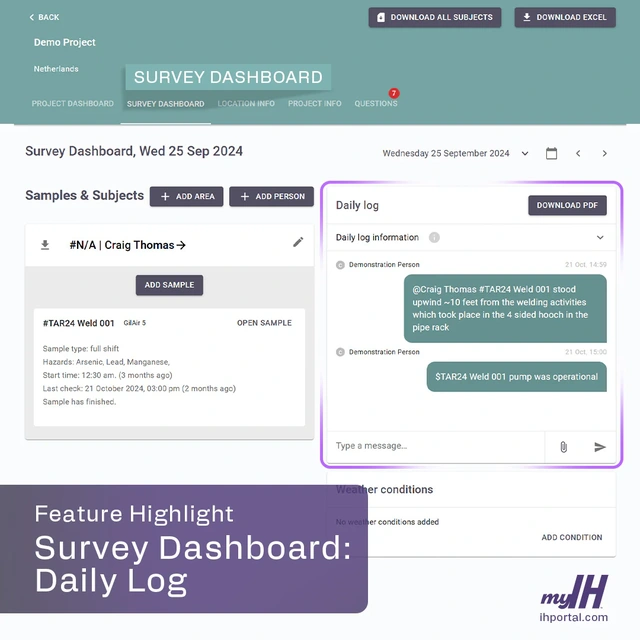
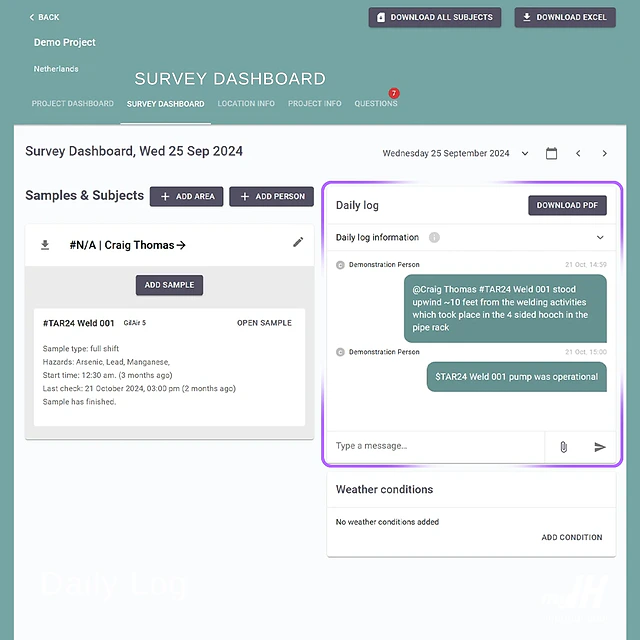
Restore the survey artwork, open the sample PDF directly and refine record cards

diff --git a/Consultants.html b/Consultants.html
@@ -1317,7 +1317,38 @@ body.previewInView #ventWrap,body.previewInView #fxParticles{visibility:hidden}
 @media(max-width:960px){.fieldExamples{grid-template-columns:1fr}.fieldExamples article{padding:22px}}
 </style><style>.questionLink{background:none;border:0;font:inherit;color:#44435c;text-decoration:underline;cursor:pointer}.svHead .svTabs{display:flex;flex-wrap:wrap;gap:0}.svTabs button{font-weight:600;line-height:1.25;font-family:inherit;font-size:15px;padding:12px;border:0;border-bottom:3px solid transparent;color:#182e30;background:transparent;cursor:pointer}.svTabs button.on{color:#102122;border-bottom-color:white;background:#ffffff26}.svTabs sup{background:#ad312a;color:white;border-radius:1em;padding:2px 5px}
 .svBody:is([data-view=project_dash],[data-view=questions],[data-view=proj_info]){max-width:1152px;margin:auto;padding:clamp(12px,2vw,30px);background:#fafbfc;border:0;color:#504e60}.svBody[data-view=project_dash] h2,.projectQuestions h2{font-size:clamp(24px,2vw,34px);font-weight:400;margin:0 0 18px}.projectOverview{display:grid;grid-template-columns:repeat(2,minmax(0,1fr));gap:16px;margin-bottom:24px}.projectOverview article,.surveyDays{background:white;border-radius:4px;box-shadow:0 1px 4px #0003;padding:16px;min-width:0;overflow-wrap:anywhere}.projectOverview h3,.svBody[data-view=project_dash]>h3{font-size:20px;margin:0 0 14px}.projectOverview p,.planStats{font:16px/1.5 Roboto,Arial,sans-serif;margin:6px 0}.planStats,.questionActions{display:flex;gap:12px;flex-wrap:wrap;justify-content:space-between}.projectOverview progress{width:100%;height:18px;accent-color:#517f80}.surveyDays{overflow-x:auto;padding:0}.svBody[data-view=project_dash] :is(td,th){font-size:15px;line-height:1.4;padding:10px;text-transform:none;letter-spacing:normal}.projectQuestions details{margin:8px 0;background:white;border:1px solid #ddd;border-radius:4px}.projectQuestions summary{cursor:pointer;background:#514e60;color:white;padding:12px 16px;font-weight:600}.projectQuestions form,.exportChoice{padding:12px 16px}.projectQuestions form label,.projectQuestions textarea,.projectQuestions select{display:block;width:100%;margin:0 0 10px;font:inherit}.projectQuestions textarea,.projectQuestions select{padding:8px;border:1px solid #9796a0;color:#222;background:white}.projectQuestions button{font:inherit;background:#504e60;color:white;padding:8px 14px;border:0;border-radius:4px;cursor:pointer}.projectQuestions button:disabled{background:#ddd;color:#555}.projectQuestions [role=status]{margin-inline:10px}.questionActions{justify-content:flex-start}.projectQuestions h3{margin:16px 0 8px}.projectQuestions .exportChoice{display:flex;align-items:center;gap:8px}.exportChoice input{width:auto}.projectQuestions p{margin:12px 0}@media(max-width:700px){.projectOverview{grid-template-columns:1fr}.svTabs button{padding:8px;font-size:14px}}</style>
-<style>.sampleShowcase{display:grid;grid-template-columns:minmax(0,2fr) minmax(250px,1fr);gap:22px;margin:28px 0;color:#282731}.subjectPreview,.sampleExport{min-width:0;border-radius:5px;overflow:hidden;box-shadow:0 1px 4px #28273135}.subjectPreview{background:white}.subjectPreview header{display:flex;align-items:center;gap:16px;padding:20px 24px;font-size:clamp(20px,2vw,26px)}.subjectPreview header span{color:#74747a}.subjectTray{padding:16px;background:#ebebed}.subjectTray details{background:white;border-radius:4px}.subjectTray summary{display:flex;gap:10px 16px;align-items:center;flex-wrap:wrap;padding:16px;cursor:pointer;font-size:17px}.subjectTray summary strong{font-size:21px}.sampleToggle{margin-left:auto;font-size:15px;color:#514e61}.sampleToggle::after{content:"Open sample ＋"}.subjectTray details[open] .sampleToggle::after{content:"Close sample −"}.subjectTray dl{display:grid;grid-template-columns:auto 1fr;gap:6px 20px;margin:0;padding:0 16px 16px;font-size:17px;line-height:1.45}.subjectTray dt{color:#555461}.subjectTray dd{margin:0}.sampleExport{display:flex;flex-direction:column;align-items:flex-start;justify-content:center;padding:clamp(20px,3vw,40px);background:linear-gradient(135deg,#56506d,#332e42);color:white}.sampleExport h3{font-size:clamp(24px,2.4vw,34px);line-height:1.15;margin:0}.sampleExport p{font-size:18px;line-height:1.5;color:#f4effb}.sampleExport button{border:1px solid #ddd8ed;border-radius:4px;background:transparent;color:white;padding:10px 16px;font:inherit;cursor:pointer}.sampleExport button:hover,.sampleExport button:focus-visible{background:#ffffff20}.subjectTray summary:is(:hover,:focus-visible){background:#f3f4f5}
+<style>
+.sampleShowcase{display:grid;grid-template-columns:minmax(0,1.55fr) minmax(0,1fr);gap:clamp(1rem,2.5vw,2.25rem);align-items:stretch}
+.subjectPreview,.sampleExport{min-width:0;border-radius:6px;overflow:hidden}
+.subjectPreview{padding:3px;background:linear-gradient(125deg,#272b32 4%,#a2b9b9 20%,#454953 34%,#252933 72%,#788b91);box-shadow:0 6px 16px #20232c22}
+.subjectPreview header{display:flex;align-items:center;gap:.8rem;background:#282c34;color:white;padding:1rem 1.25rem;font-size:clamp(1.12rem,2vw,1.5rem)}
+.subjectPreview header span{color:#b5d9d8}
+.subjectTray{padding:clamp(.7rem,2vw,1.3rem);background:#e6e8e9}
+.subjectTray details{background:white;border:1px solid #ccd2d4;border-radius:3px}
+.subjectTray summary{display:flex;align-items:center;flex-wrap:wrap;gap:.45rem .8rem;padding:1rem;cursor:pointer;color:#242632;list-style:none}
+.subjectTray summary::-webkit-details-marker{display:none}
+.subjectTray summary strong{font-size:1.25rem}
+.subjectTray summary span{font-size:1rem;flex:1 1 12rem}
+.sampleToggle{color:#46425d;font-size:.95rem}
+.sampleToggle:after{content:'Open sample ＋'}
+details[open] .sampleToggle:after{content:'Close sample −'}
+.subjectTray dl{margin:0;padding:.35rem 1rem .65rem;display:grid;grid-template-columns:minmax(6rem,.8fr) minmax(0,1fr);background:#202e33;color:#f4fafa;border-top:3px solid #88b8b6}
+.subjectTray dt,.subjectTray dd{margin:0;padding:.65rem 0;border-bottom:1px solid #53636a;font-size:1rem;line-height:1.4;overflow-wrap:anywhere}
+.subjectTray dt{font-family:ui-monospace,monospace;color:#bddad8}
+.subjectTray dd{text-align:right}
+.sampleExport{display:flex;flex-direction:column;align-items:flex-start;justify-content:center;gap:1rem;padding:clamp(1.35rem,3vw,2.75rem);color:white;background:linear-gradient(130deg,#645871,#483d58 52%,#342d42);border:1px solid #786a86;box-shadow:0 6px 16px #30273825}
+.sampleExport h3,.sampleExport p{color:inherit;margin:0}
+.sampleExport h3{font-size:clamp(1.5rem,2.35vw,2.25rem);line-height:1.15}
+.sampleExport p{font-size:1.1rem;line-height:1.5}
+.sampleExport a{display:inline-flex;align-items:center;min-height:44px;padding:.6rem 1rem;border:1px solid #ece7f2;border-radius:3px;background:#fff;color:#44394f;font-weight:700;text-decoration:none}
+.sampleExport a:hover,.sampleExport a:focus-visible{background:#efe9f5;text-decoration:underline}
+.subjectTray summary:focus-visible,.sampleExport a:focus-visible{outline:3px solid #387a81;outline-offset:-3px}
+.recordStory .recordDestinations{overflow:visible}
+.recordStory .recordDestinations details,.recordStory .recordDestinations details[open]{position:relative;margin:1.1rem 0 .65rem;border:1px solid #839e9c!important;border-radius:0 4px 4px 4px;background:#fcfdfb!important;box-shadow:0 3px 0 #d4dfdd}
+.recordStory .recordDestinations details:before{content:'';position:absolute;bottom:100%;left:-1px;width:clamp(3rem,15%,6rem);height:8px;background:#89acaa;clip-path:polygon(0 0,85% 0,100% 100%,0 100%)}
+@media(hover:hover) and (pointer:fine) and (prefers-reduced-motion:no-preference){.subjectPreview,.sampleExport{transition:box-shadow .18s ease}.subjectPreview:hover,.sampleExport:hover{box-shadow:0 7px 21px #30273840}.sampleExport{background:radial-gradient(ellipse at var(--tile-x,25%) var(--tile-y,20%),#71647d88,transparent 65%),linear-gradient(130deg,#60536e,#352d42)}}
+@media(max-width:760px){.sampleShowcase{grid-template-columns:minmax(0,1fr)}.sampleExport{padding:1.4rem}.subjectTray summary{align-items:baseline}.subjectTray summary span{flex-basis:100%}}
+
 #sandbox .slide:not(:first-child){width:100%;max-width:1280px;margin-inline:auto;padding:clamp(16px,2.5vw,32px)}#sandbox .slide h2{font-size:clamp(27px,2.5vw,38px);line-height:1.16}#sandbox .slide .sub{font-size:clamp(18px,1.25vw,21px)!important;line-height:1.5;max-width:78ch}#sandbox .slide .eyebrow{font-size:15px;letter-spacing:.09em}
 #sandbox .slide--report .bmrReport{max-width:none;min-width:0;width:100%;zoom:1}.reportFrame{background:#f2f4f5;padding:clamp(8px,1.6vw,20px)}.bmrReport details>summary{cursor:pointer;background:#514c61;color:white;padding:10px 16px;font-size:18px;font-weight:600}.bmrReport details+details{border-top:1px solid #dedbe2}.reportSection{overflow-x:auto}.bmrReport .bmrGrid{grid-template-columns:minmax(0,1fr) minmax(0,1.6fr) minmax(0,1fr) minmax(0,1.6fr)}#sandbox .bmrReport :is(.bmrLabel,.bmrValue){font-size:17px;padding:8px 12px;line-height:1.4;overflow-wrap:anywhere}
 #sandbox #explore .scenarioPair{display:grid;grid-template-columns:minmax(0,1.45fr) minmax(0,1fr);gap:clamp(12px,2vw,26px);margin-top:22px;align-items:start;container-type:inline-size}#sandbox #explore .scenarioPair>.cardShadow{margin:0;min-width:0;border-radius:4px;box-shadow:0 2px 7px #24233226;padding:18px;background:white}#sandbox #explore .scenarioPair .dashboardChartTitle{font-size:clamp(22px,1.7vw,28px);line-height:1.2}#sandbox #explore .scenarioPair .donutGrid{display:grid;grid-template-columns:minmax(0,1.1fr) minmax(0,1fr);gap:14px;align-items:center}#sandbox #explore .scenarioPair .donutClients{max-height:none;overflow:visible;width:auto}#sandbox #explore .donutClients label{display:flex;align-items:baseline;gap:8px;font-size:17px;line-height:1.4;margin:8px 0}#sandbox #explore .scenarioPair .donutBox{width:100%;max-width:320px;min-width:0;height:auto;aspect-ratio:1}#sandbox #explore .donutBox svg{width:100%;height:100%}#sandbox #explore .scenarioPair .dashResults{max-height:none;overflow:visible;padding:0}#sandbox #explore .scenarioPair .dashResults :is(td,th){font-size:16px;line-height:1.4;padding:12px;white-space:normal}#sandbox #explore #donutHaz{min-width:0!important;max-width:100%;width:100%;font-size:17px}
@@ -1517,7 +1548,7 @@ body.previewInView #ventWrap,body.previewInView #fxParticles{visibility:hidden}
     </div>
     <div class="brandProduct">
       <div class="brandProductTop"><span class="liveDot"></span> THE FIELD DAY, CONNECTED <span class="brandProductTag">myIH / SURVEY</span></div>
-      <div class="brandProductImage"><img src="assets/survey-dashboard-4dcff.webp" width="1080" height="1080" decoding="async" srcset="assets/survey-dashboard-4dcff-640.webp 640w, assets/survey-dashboard-4dcff.webp 1080w" sizes="(max-width:1050px) 94vw, 55vw" fetchpriority="high" alt="myIH Survey Dashboard showing Samples and Subjects beside the tagged Daily Log"></div>
+      <div class="brandProductImage"><img src="assets/survey-dashboard-4dcff.webp" width="1080" height="1080" decoding="async" srcset="assets/survey-dashboard-4dcff-640.webp 640w, assets/survey-dashboard-4dcff.webp 1080w, assets/survey-dashboard-daily-log-1920.webp 1920w" sizes="(max-width:1050px) 94vw, 55vw" fetchpriority="high" alt="myIH Survey Dashboard showing Samples and Subjects beside the tagged Daily Log"></div>
       <div class="brandProductFoot"><span><b>@</b> People</span><span><b>#</b> Samples</span><span><b>$</b> Pump checks</span><span class="brandRecord">One connected record</span></div>
     </div>
   </div>
@@ -1829,7 +1860,7 @@ body.previewInView #ventWrap,body.previewInView #fxParticles{visibility:hidden}
 <header><span aria-hidden="true">▤</span><strong>#001 | Noise Tester</strong></header>
 <div class="subjectTray"><details open><summary><strong>#NoiseTest</strong><span>Casella CEL Noise Dosimeter Calibrator</span><b class="sampleToggle"></b></summary>
 <dl><dt>Sample type</dt><dd>Full shift</dd><dt>Hazard</dt><dd>Noise Dose</dd><dt>Start time</dt><dd>08:00 am</dd><dt>Last check</dt><dd>Not checked</dd><dt>Status</dt><dd>Finished with results</dd></dl></details></div></article>
-<aside class="sampleExport"><h3>Export the sample record</h3><p>Review the field notes and results together in Excel or PDF.</p><button type="button" onclick="openSandbox();go(6)">View sample data sheet →</button></aside></div>
+<aside class="sampleExport"><h3>Export the sample record</h3><p>Review the field notes and results together in Excel or PDF.</p><a href="assets/tour/BR-062124-001.pdf" target="_blank" rel="noopener">View sample data sheet (PDF) ↗</a></aside></div>
 <aside class="recordProof">
 <div class="recordProofStat"><strong>20%</strong><span>minimum efficiency gain<br>reported by a user</span></div>
 <div><blockquote>“Using myIH, we experienced a minimum 20% efficiency gain.”</blockquote><cite>— Current user, IH Consultancy CEO</cite><p class="claimQualifier">Based on internal data from beta testing and active user subscriptions.</p></div>
@@ -2885,15 +2916,8 @@ function animateInView(element, draw, still){
       var aEng=band(p,-1,0.03,0.15,0.21), aLab=band(p,0.19,0.25,0.33,0.39),
           aSoft=band(p,0.37,0.43,0.50,0.56), aDust=band(p,0.54,0.60,0.66,0.72),
           fin=ramp(p,0.70,1.0);
-      var bg;
-      if(p<0.19){ bg=[220,234,234]; }
-      else if(p<0.37){ bg=[226,234,239]; }
-      else if(p<0.54){ bg=[230,230,237]; }
-      else if(p<0.70){ bg=[231,226,239]; }
-      else { bg=[220,234,234]; }
-      g.fillStyle='rgb('+bg[0]+','+bg[1]+','+bg[2]+')'; g.fillRect(0,0,W,H);
-
-      drawEng(aEng); drawLab(aLab); drawSoftBg(aSoft); drawDust(fin>0.02?0:aDust); drawFinale(fin);
+      g.fillStyle='#dceaea';g.fillRect(0,0,W,H);
+    drawEng(aEng); drawLab(aLab); drawSoftBg(aSoft); drawDust(fin>0.02?0:aDust); drawFinale(fin);
 
       toggle(chips.pump,aEng>0.5); toggle(chips.benzene,aEng>0.5);
       toggle(chips.gcms,aLab>0.5); toggle(chips.pcm,aLab>0.5);
@@ -3164,6 +3188,23 @@ calibration:'M7 2h13v19H7zm6 2a2 2 0 1 0 0 4 2 2 0 0 0 0-4zm0 6a4 4 0 1 0 0 8 4 
 questions:'M2 3h12v7H2zm0 11h12v7H2zM17 2h6l-3 8h3l-7 13 2-10h-3z'
 };
 document.querySelectorAll('#exNav li').forEach(li=>{li.querySelector('button').insertAdjacentHTML('afterbegin','<svg viewBox="0 0 24 24" aria-hidden="true"><path d="'+icons[li.dataset.tab]+'"/></svg>');});
+})();
+</script>
+<script>
+(() => {
+  const tile = document.querySelector('.sampleExport');
+  if (!tile) return;
+  const motion = matchMedia('(hover:hover) and (pointer:fine) and (prefers-reduced-motion:no-preference)');
+  tile.addEventListener('pointermove', event => {
+    if (!motion.matches) return;
+    const bounds = tile.getBoundingClientRect();
+    tile.style.setProperty('--tile-x', (100 * (event.clientX - bounds.left) / bounds.width) + '%');
+    tile.style.setProperty('--tile-y', (100 * (event.clientY - bounds.top) / bounds.height) + '%');
+  });
+  tile.addEventListener('pointerleave', () => {
+    tile.style.removeProperty('--tile-x');
+    tile.style.removeProperty('--tile-y');
+  });
 })();
 </script>
 </body>
